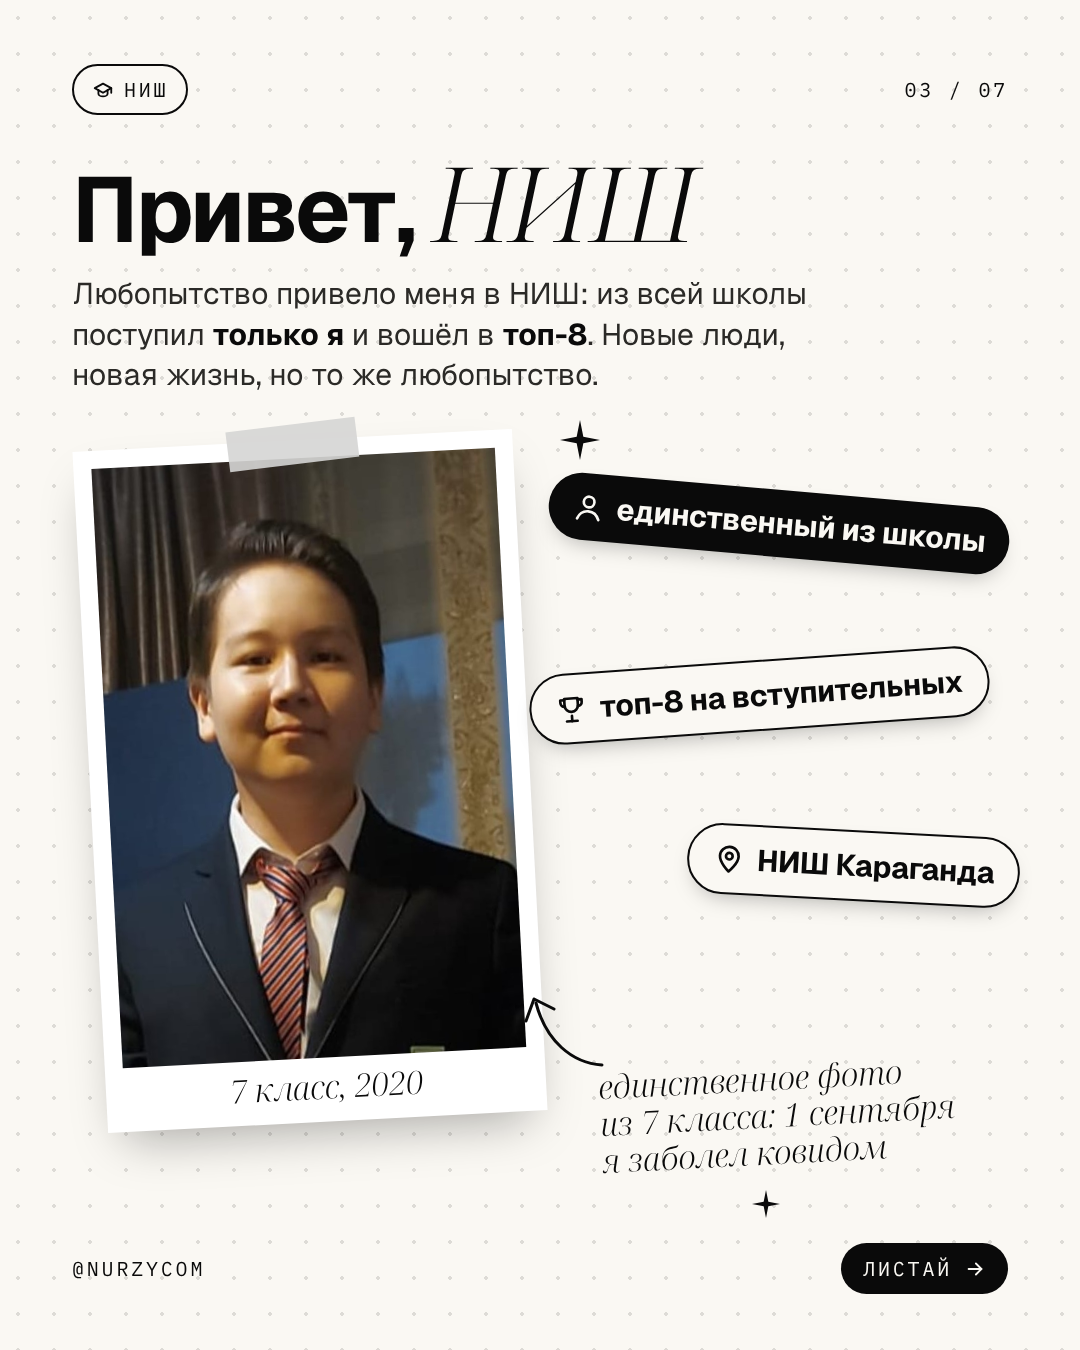
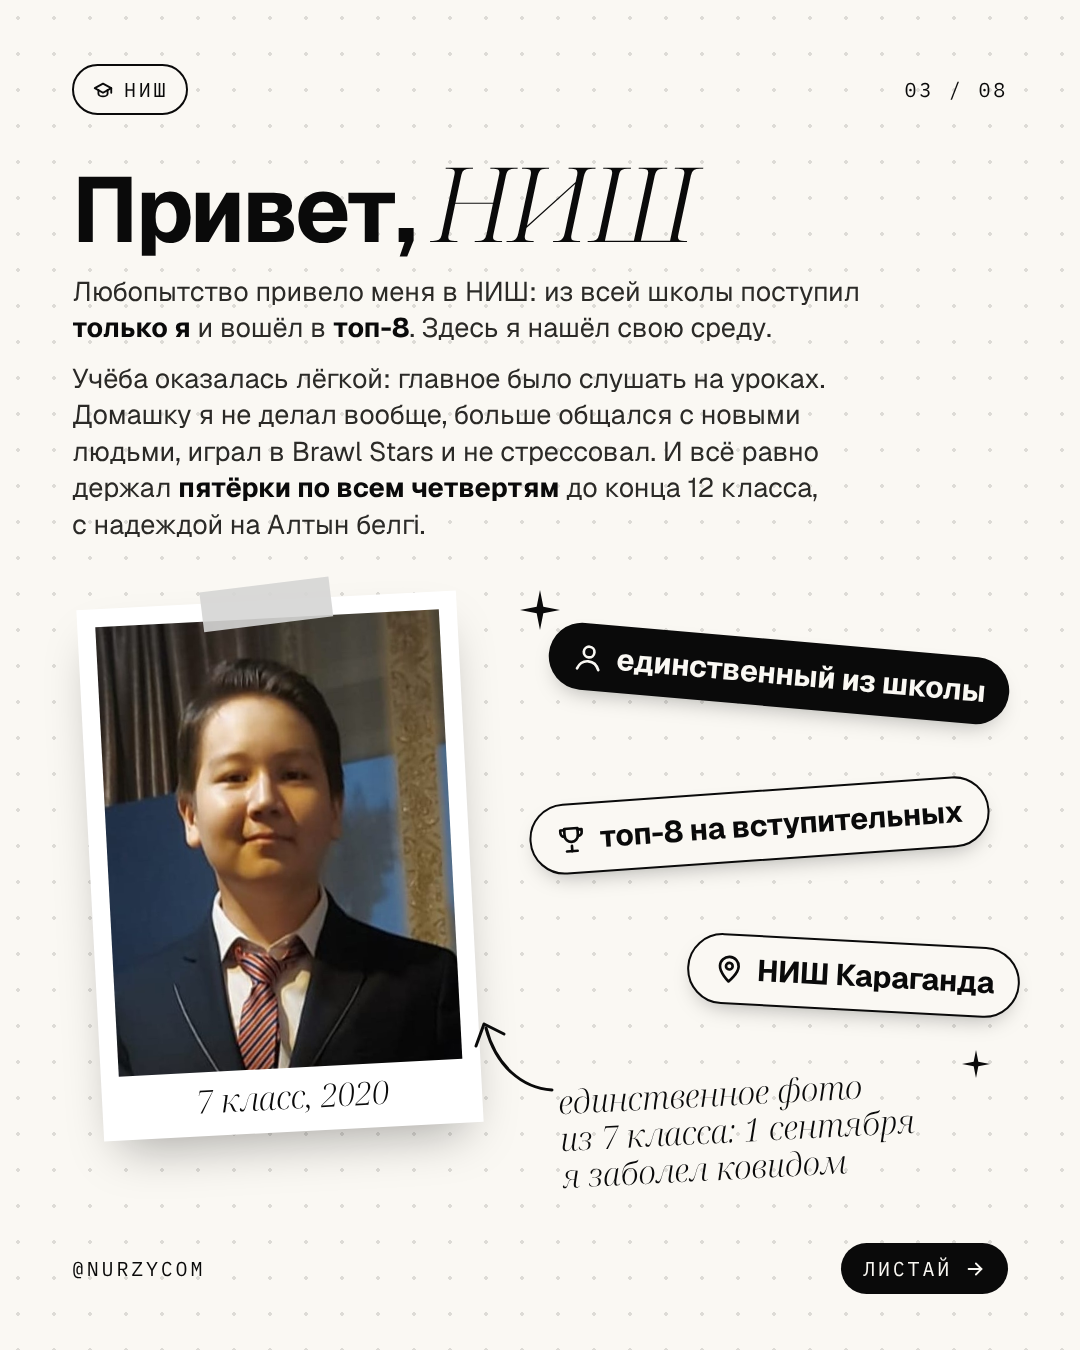
Story: expand slide 3 (NIS), add slide 4 (chemistry, grades 7-8), renumber to 8 slides
Claude-Session: https://claude.ai/code/session_01EUKBNPzc7y2DXSfnei23HU

Changed region(s): [[0.0611, 0.1867, 0.9472, 0.9022], [0.7639, 0.1867, 0.7944, 0.2178], [0.1222, 0.84, 0.1528, 0.8711]]

diff --git a/social/story/slide-04.html b/social/story/slide-04.html
@@ -1,0 +1,111 @@
+<!doctype html>
+<html lang="ru">
+<head>
+<meta charset="utf-8">
+<title>Story · slide 04</title>
+<link rel="stylesheet" href="https://fonts.googleapis.com/css2?family=Geist:wght@400;500;700&family=IBM+Plex+Mono:wght@400&family=Noto+Serif+Display:ital,wght@1,300&display=swap">
+<style>
+  /* Instagram portrait post 1080 × 1350, informal style (see slide-01). */
+  :root {
+    --ink: #0A0A0A; --paper: #FAF8F3; --studio: #D5D5D4;
+    --serif: 'Noto Serif Display', serif;
+    --sans: 'Geist', system-ui, sans-serif;
+    --mono: 'IBM Plex Mono', monospace;
+  }
+  * { margin: 0; padding: 0; box-sizing: border-box; }
+  html, body { width: 1080px; height: 1350px; }
+  body { background: var(--paper); color: var(--ink); font-family: var(--sans); -webkit-font-smoothing: antialiased; overflow: hidden; }
+  .slide { position: relative; width: 1080px; height: 1350px; padding: 64px 72px; }
+  .slide::before { content: ''; position: absolute; inset: 0; background-image: radial-gradient(rgba(10,10,10,.12) 1.6px, transparent 1.6px); background-size: 36px 36px; }
+  .slide > * { position: relative; }
+
+  .top { display: flex; justify-content: space-between; align-items: center; font: 400 20px var(--mono); letter-spacing: .14em; text-transform: uppercase; }
+  .chip { display: inline-flex; align-items: center; gap: 10px; padding: 10px 18px; border: 2px solid var(--ink); border-radius: 999px; background: var(--paper); }
+  .chip svg { width: 22px; height: 22px; }
+
+  .text { position: absolute; left: 72px; right: 72px; bottom: 150px; }
+  h1 { font: 700 92px/1 var(--sans); letter-spacing: -.035em; }
+  h1 em { font: 300 italic 104px/1 var(--serif); letter-spacing: -.02em; }
+  .sub { margin-top: 18px; font-size: 30px; line-height: 1.35; max-width: 40ch; color: #2b2a27; }
+  .sub b { font-weight: 700; color: var(--ink); }
+
+  .card { position: absolute; background: #fff; box-shadow: 0 24px 50px -18px rgba(10,10,10,.35); }
+  .card img { display: block; width: 100%; height: 100%; object-fit: cover; object-position: center top; }
+  .photo { left: 70px; top: 150px; width: 420px; padding: 18px 18px 64px; transform: rotate(-4deg); }
+  .photo .ph { width: 384px; height: 520px; }
+  .photo .cap { position: absolute; left: 0; right: 0; bottom: 14px; text-align: center; font: 300 italic 32px var(--serif); }
+  .diploma { right: 64px; top: 230px; width: 500px; padding: 14px; transform: rotate(5deg); }
+  .diploma .ph { width: 472px; height: 333px; }
+  .tape { position: absolute; width: 130px; height: 40px; background: rgba(213,213,212,.9); }
+  .photo .tape { top: -16px; left: 50%; transform: translateX(-50%) rotate(-4deg); }
+  .diploma .tape.a { top: -18px; left: -36px; transform: rotate(-30deg); }
+  .diploma .tape.b { bottom: -16px; right: -36px; transform: rotate(-30deg); }
+
+  .sticker { position: absolute; display: inline-flex; align-items: center; gap: 12px; padding: 14px 24px; border-radius: 999px; font: 700 30px var(--sans); letter-spacing: -.01em; white-space: nowrap; box-shadow: 0 10px 24px -12px rgba(10,10,10,.4); }
+  .sticker svg { width: 32px; height: 32px; flex: none; }
+  .s-dark { background: var(--ink); color: var(--paper); }
+  .s-light { background: var(--paper); color: var(--ink); border: 2.5px solid var(--ink); }
+  .s1 { top: 150px; right: 80px; transform: rotate(-4deg); }
+  .s2 { top: 610px; right: 110px; transform: rotate(4deg); }
+  .s3 { top: 730px; right: 70px; transform: rotate(-3deg); }
+
+  .note { position: absolute; top: 845px; left: 540px; font: 300 italic 38px/1.1 var(--serif); transform: rotate(-4deg); }
+  .arrow { position: absolute; top: 770px; left: 425px; width: 120px; height: 100px; }
+  .arrow path { fill: none; stroke: var(--ink); stroke-width: 3; stroke-linecap: round; stroke-linejoin: round; }
+  .sparkle { position: absolute; width: 40px; height: 40px; }
+  .sparkle path { fill: var(--ink); }
+  .sp1 { top: 190px; left: 520px; }
+  .sp2 { top: 860px; right: 110px; width: 28px; height: 28px; }
+
+  .foot { position: absolute; left: 72px; right: 72px; bottom: 56px; display: flex; justify-content: space-between; align-items: center; font: 400 20px var(--mono); letter-spacing: .14em; text-transform: uppercase; }
+  .swipe { display: inline-flex; align-items: center; gap: 12px; padding: 12px 22px; background: var(--ink); color: var(--paper); border-radius: 999px; }
+  svg.i { fill: none; stroke: currentColor; stroke-width: 2; stroke-linecap: round; stroke-linejoin: round; }
+  .text { position: absolute; left: 72px; right: 72px; bottom: 150px; }
+  .text .sub { font-size: 29px; max-width: 44ch; }
+  .board { position: absolute; left: 72px; right: 72px; top: 170px; }
+  .row { display: flex; align-items: center; gap: 36px; padding: 22px 36px; margin-bottom: 22px; background: #fff; border: 2.5px solid var(--ink); border-radius: 28px; box-shadow: 0 16px 30px -18px rgba(10,10,10,.4); }
+  .row:nth-child(1) { transform: rotate(-1.5deg); width: 86%; }
+  .row:nth-child(2) { transform: rotate(1deg); width: 86%; margin-left: 6%; }
+  .row:nth-child(3) { transform: rotate(-1deg); width: 86%; margin-left: 12%; background: var(--ink); color: var(--paper); }
+  .row .n { font: 300 italic 108px/1 var(--serif); width: 70px; text-align: center; }
+  .row .t { flex: 1; }
+  .row .t b { display: block; font: 700 38px/1.1 var(--sans); letter-spacing: -.02em; }
+  .row .t span { font: 400 20px var(--mono); letter-spacing: .14em; text-transform: uppercase; opacity: .7; }
+  .row svg { width: 64px; height: 64px; flex: none; }
+  .s1 { top: 128px; right: 80px; transform: rotate(5deg); }
+  .note { position: absolute; top: 700px; right: 80px; font: 300 italic 36px/1.1 var(--serif); transform: rotate(-4deg); text-align: right; }
+  .arrow { top: 560px; right: 120px; width: 100px; height: 130px; }
+  .sp1 { top: 640px; left: 90px; }
+  .sp2 { top: 120px; left: 560px; width: 28px; height: 28px; }
+</style>
+</head>
+<body>
+<div class="slide">
+  <div class="top">
+    <span class="chip"><svg class="i" viewBox="0 0 24 24"><path d="M9 3h6"/><path d="M10 3v6L5 19a1.5 1.5 0 0 0 1.3 2h11.4A1.5 1.5 0 0 0 19 19l-5-10V3"/><path d="M7.5 15h9"/></svg>Химия</span>
+    <span>04 / 08</span>
+  </div>
+
+  <div class="board">
+    <div class="row"><span class="n">7</span><span class="t"><b>Первые олимпиады</b><span>класс · без медали</span></span><svg class="i" viewBox="0 0 24 24" stroke-width="1.6"><circle cx="12" cy="12" r="10"/><path d="M8.5 8.5l7 7M15.5 8.5l-7 7"/></svg></div>
+    <div class="row"><span class="n">8</span><span class="t"><b>Снова мимо</b><span>класс · без медали</span></span><svg class="i" viewBox="0 0 24 24" stroke-width="1.6"><circle cx="12" cy="12" r="10"/><path d="M8.5 8.5l7 7M15.5 8.5l-7 7"/></svg></div>
+    <div class="row"><span class="n">9</span><span class="t"><b>«В этот раз смогу»</b><span>класс · решение</span></span><svg class="i" viewBox="0 0 24 24" stroke-width="1.6"><circle cx="12" cy="12" r="10" stroke-dasharray="3 3"/><path d="M9.5 9.5a2.5 2.5 0 1 1 3.5 2.3c-.7.3-1 .9-1 1.6v.6"/><path d="M12 17.2v.1"/></svg></div>
+  </div>
+
+  <span class="note">два года<br>без медалей</span>
+
+  <div class="text">
+    <h1>И тут <em>химия</em></h1>
+    <p class="sub">Мой учитель химии заметил меня и стал таскать по олимпиадам. Но в 7 и 8 классе ничего не получилось: не хватало драйва. В конце 8 класса я решил, что в 9 классе <b>точно смогу</b>.</p>
+  </div>
+
+  <svg class="sparkle sp1" viewBox="0 0 24 24"><path d="M12 0 L14 10 L24 12 L14 14 L12 24 L10 14 L0 12 L10 10 Z"/></svg>
+  <svg class="sparkle sp2" viewBox="0 0 24 24"><path d="M12 0 L14 10 L24 12 L14 14 L12 24 L10 14 L0 12 L10 10 Z"/></svg>
+
+  <div class="foot">
+    <span>@nurzycom</span>
+    <span class="swipe">Листай <svg class="i" viewBox="0 0 24 24" width="22" height="22"><path d="M5 12h14"/><path d="M13 6l6 6-6 6"/></svg></span>
+  </div>
+</div>
+</body>
+</html>

diff --git a/social/story/slide-03.html b/social/story/slide-03.html
@@ -61,28 +61,31 @@
   .swipe { display: inline-flex; align-items: center; gap: 12px; padding: 12px 22px; background: var(--ink); color: var(--paper); border-radius: 999px; }
   svg.i { fill: none; stroke: currentColor; stroke-width: 2; stroke-linecap: round; stroke-linejoin: round; }
   .text { position: absolute; left: 72px; right: 72px; top: 150px; bottom: auto; }
-  .photo { left: 90px; top: 440px; width: 440px; padding: 18px 18px 64px; transform: rotate(-3deg); }
-  .photo .ph { width: 404px; height: 600px; }
+  .text .sub { font-size: 27px; max-width: 46ch; margin-top: 14px; }
+  .text h1 + .sub { margin-top: 18px; }
+  .photo { left: 90px; top: 600px; width: 380px; padding: 18px 18px 64px; transform: rotate(-3deg); }
+  .photo .ph { width: 344px; height: 450px; }
   .photo .ph img { object-position: center 20%; }
-  .s1 { top: 490px; right: 70px; transform: rotate(5deg); }
-  .s2 { top: 660px; right: 90px; transform: rotate(-4deg); }
-  .s3 { top: 830px; right: 60px; transform: rotate(3deg); }
-  .note { position: absolute; top: 1060px; left: 600px; font: 300 italic 32px/1.15 var(--serif); transform: rotate(-3deg); }
-  .arrow { top: 985px; left: 520px; width: 90px; height: 90px; }
-  .sp1 { top: 420px; left: 560px; }
-  .sp2 { top: 1190px; right: 300px; width: 28px; height: 28px; }
+  .s1 { top: 640px; right: 70px; transform: rotate(5deg); }
+  .s2 { top: 790px; right: 90px; transform: rotate(-4deg); }
+  .s3 { top: 940px; right: 60px; transform: rotate(3deg); }
+  .note { position: absolute; top: 1075px; left: 560px; font: 300 italic 32px/1.15 var(--serif); transform: rotate(-3deg); }
+  .arrow { top: 1010px; left: 470px; width: 90px; height: 90px; }
+  .sp1 { top: 590px; left: 520px; }
+  .sp2 { top: 1050px; right: 90px; width: 28px; height: 28px; }
 </style>
 </head>
 <body>
 <div class="slide">
   <div class="top">
     <span class="chip"><svg class="i" viewBox="0 0 24 24"><path d="M3 10l9-5 9 5-9 5z"/><path d="M7 12v4c0 1.5 2.2 3 5 3s5-1.5 5-3v-4"/><path d="M21 10v5"/></svg>НИШ</span>
-    <span>03 / 07</span>
+    <span>03 / 08</span>
   </div>
 
   <div class="text">
     <h1>Привет, <em>НИШ</em></h1>
-    <p class="sub">Любопытство привело меня в НИШ: из всей школы поступил <b>только я</b> и вошёл в&nbsp;<b>топ-8</b>. Новые люди, новая жизнь, но&nbsp;то&nbsp;же любопытство.</p>
+    <p class="sub">Любопытство привело меня в НИШ: из всей школы поступил <b>только я</b> и вошёл в&nbsp;<b>топ-8</b>. Здесь я нашёл свою среду.</p>
+    <p class="sub">Учёба оказалась лёгкой: главное было слушать на уроках. Домашку я не делал вообще, больше общался с новыми людьми, играл в Brawl Stars и не стрессовал. И всё равно держал <b>пятёрки по всем четвертям</b> до конца 12 класса, с&nbsp;надеждой на Алтын белгі.</p>
   </div>
 
   <div class="card photo">

diff --git a/social/story/slide-01.html b/social/story/slide-01.html
@@ -65,7 +65,7 @@
 <div class="slide">
   <div class="top">
     <span class="chip"><svg class="i" viewBox="0 0 24 24"><circle cx="12" cy="8" r="4"/><path d="M4 21c1.5-4 4.5-6 8-6s6.5 2 8 6"/></svg>О себе</span>
-    <span>01 / 07</span>
+    <span>01 / 08</span>
   </div>
 
   <h1>Привет, я <em>Нурасыл</em></h1>

diff --git a/social/story/slide-02.html b/social/story/slide-02.html
@@ -66,7 +66,7 @@
 <div class="slide">
   <div class="top">
     <span class="chip"><svg class="i" viewBox="0 0 24 24"><path d="M12 21s-7-6.2-7-11.5A7 7 0 0 1 19 9.5C19 14.8 12 21 12 21z"/><circle cx="12" cy="9.5" r="2.5"/></svg>Начало</span>
-    <span>02 / 07</span>
+    <span>02 / 08</span>
   </div>
 
 
